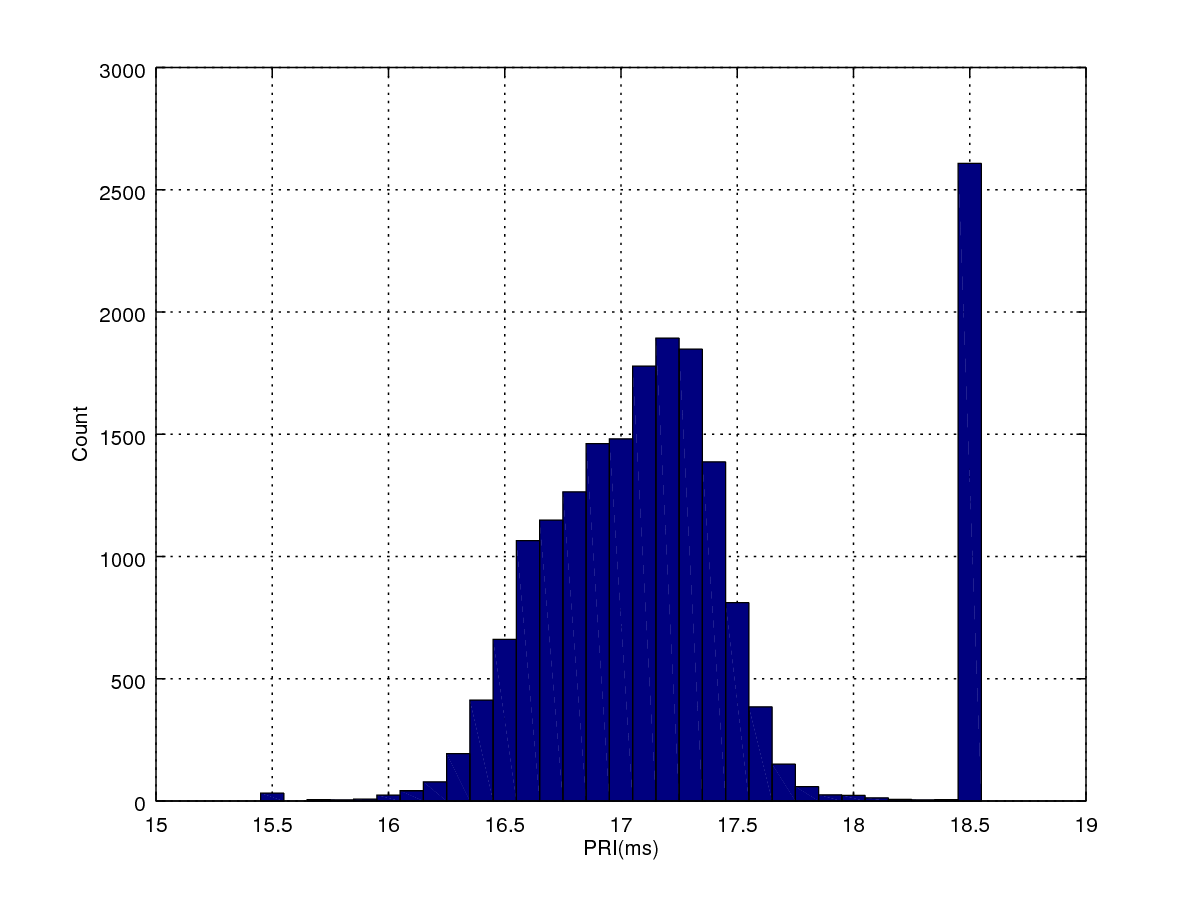
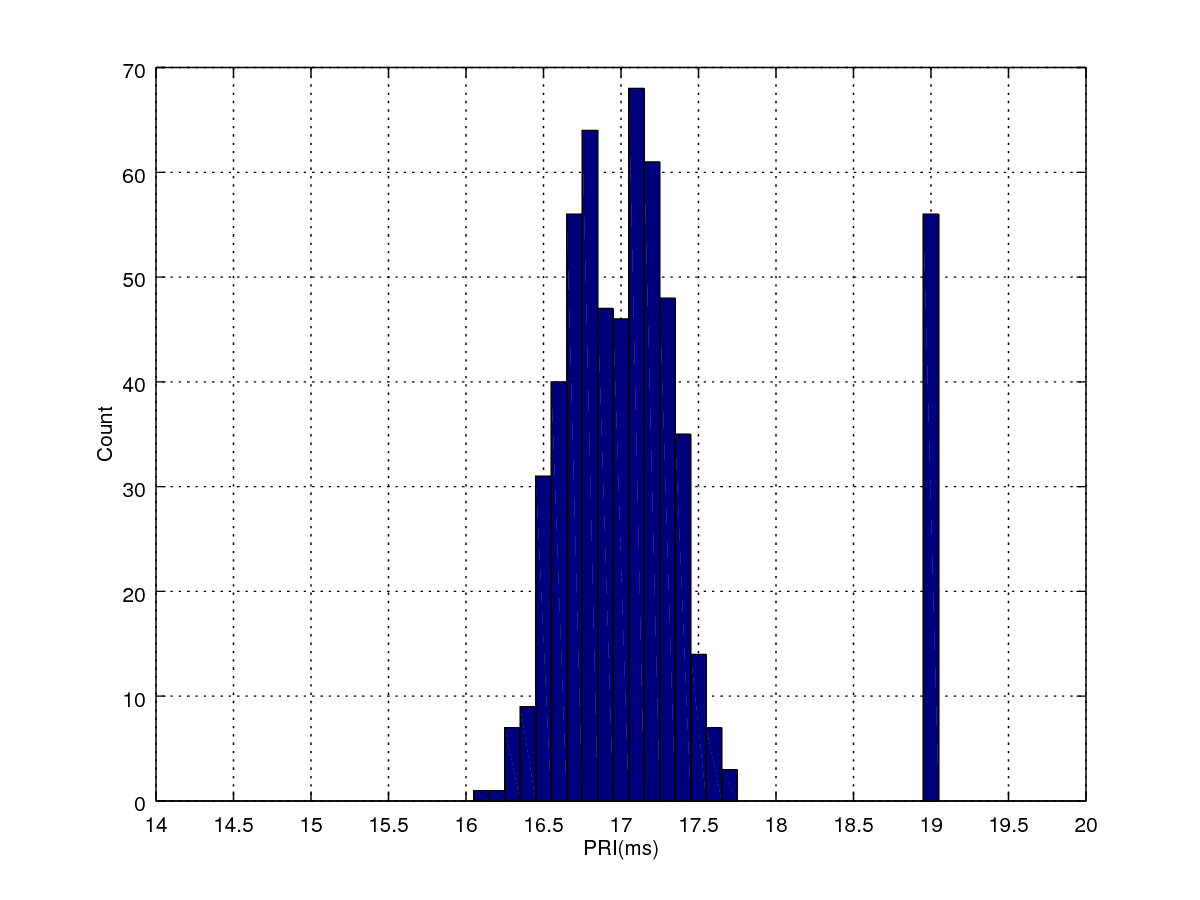
Proof reading revision done.

diff --git a/Writings/TrafficAnalysisOnIoT/device.tex b/Writings/TrafficAnalysisOnIoT/device.tex
@@ -1,33 +1,41 @@
-\section{Distinguish Devices}\label{Sec:DistinguishDevice}
-IoT applications utilise a great variation of devices, with each having different processing power. Thus the same operation, e.g. processing a PING packet, takes different time on different devices. This opens the potential of leaking hardware information through observing packet timings.
+\section{Distinguish Hardware}\label{Sec:DistinguishDevice}
+%Basic idea of this attack
+IoT applications utilise a great variation of devices, with each having different processing power. Consequently, the time required for a specific operation could be exploited as an indicator to the hardware. 
 
-Although not uniquely, PING is specifically an ideal feature supported in 6LoWPAN that can be exploited to perform such attack due to:
+The time required to process a PING Request could therefore be exploited to perform such hardware distinguishing attack. Although the same attack could be conducted on various packets, PING is specifically practical and ideal due to:
 \begin{enumerate}
-	\item PING is processed in a highly predictable routine where nearly no computation is required, minimising the noise induced by different data.
-	\item The support of PING is required by the IPv6\cite{rfc4443}, making the attack universally applicable.
+	\item PING is processed in a highly predictable manner where nearly no computation is required; thus minimises the noise induced by data dependency.
+	\item Support to PING is mandatory according to the standard\cite{rfc4443}, making the attack universally applicable.
 \end{enumerate}
 
-When using the ping command in Linux distributions, it is recommend to add the ``-s 0'' option to remove the user defined data and thus avoid exceeding 6LoWPAN MTU (127 bytes). The interval option  ``-i'' must also be used with care as excessing frequency may flood the devices and cause inaccurate measurements.
+For our experiments, the PING Requests are initiated from a Linux machine connected into the 6LoWPAN through a border router. The ``-s 0'' option is specified for the `ping6' command in order to avoid exceeding the MTU of 6LoWPAN (127 bytes). 
 
 \subsection{Computing PING Response Time}\label{TimingWithContikiMAC}
-Contiki adopts a Radio Duty Cycle (RDC) protocol called Contiki MAC\cite{ContikiMAC} to preserve energy. On receiver's side, Contiki MAC switching off the radio for most of the times and periodically wakes it up for a short period for signal detection. If a signal is detected during that period, the radio is kept on until the packet is received. On the other hand, the sender repeatedly sends a packet, until one of them is detected by the receiver and the next one being received and acknowledged.
+%How to process the packets
+%ContikiMAC
+For energy preservation, Contiki adopts a Radio Duty Cycle (RDC) protocol called Contiki MAC\cite{ContikiMAC}. On receiver's side, Contiki MAC switches off the radio for most of the times and periodically wakes up for a short period for signal detection. If a signal is detected during the awaken period, the radio is kept on to receive a packet, followed by an acknowledgement sent to inform the sender. On sender's side, a packet is repeatedly transmitted until timed out or an acknowledgement is received.
 
-As a result, duplicated packets may be observed in the captured traffic. To best approximate the processing time for a specific PING request, the PING Response Interval (PRI) is defined as the time elapsed between the last PING request being sent and the first PING response being replied. 
+Therefore when ContikiMAC is enabled by default, duplicated packets may be observed in the captured traffic. As an approximation to the PING Request processing time, we define PING Response Interval (PRI) as the time elapsed between the last PING Request and the first PING Response.
 
-\paragraph{Example}
+\begin{example}
+%\paragraph{Example}
 
 \AddFigure{fig/PRI.png}{PRI Example}{PRIExample}
 
-\Cref{PRIExample} shows an example of packets captured by Wireshark\cite{Wireshark}. Duplicated PING requests, \#$198$ to \#$203$, are replied by a single response, \#$205$, matched by their \textit{seq} field ($=16$). The PRI is therefore computed as the time between \#$203$ and \#$205$ which is:
+\Cref{PRIExample} shows an example of packets captured by Wireshark\cite{Wireshark}. Duplicated PING Requests, No.$198$ to No.$203$, are replied by a single PING Response, No.$205$, matched by their \textit{seq} field ($16$). The PRI is therefore computed as the difference in time between No.$203$ (last PING Request) and No.$205$ (first PING Response) which is:
 \begin{equation*}
 PRI = 4.701468 - 4.684369 = 0.017099(s) = 17.099(ms)
 \end{equation*}
+\end{example}
 
-\subsection{PRIs on TelosB and CC2538} \label{PRI_Devices}
+\subsection{PRIs of TelosB and CC2538} \label{PRI_Devices}
 
-\Cref{PRIs} shows PRIs collected on two devices, TelosB and CC2538, respectively. The graph demonstrates that they can be easily distinguished, as PRIs of TelosB are clustered around $17$ ms whilst CC2538 are around $9.5$ ms.
+\Cref{PRIs} shows the distributions of PRI collected on TelosB and CC2538. The bar on the right most represents the outliers in the data, with $9.43\%$ on TelosB are $\geq 19$ms and $2.60\%$ on CC2538 $\geq 12$ms respectively. 
+
+The result of \Cref{PRIs} suggests that TelosB and CC2538 can be easily distinguished by their PRIs, as they are tightly clustered around $17$ms for TelosB and $9.5$ms for CC2538 respectively.
 
 \begin{figure}[ht!]
+	\centering
 	\begin{subfigure}{0.45\linewidth}
 		\includegraphics[width=\linewidth]{fig/helloworld_sky.png}
 		\subcaption{TelosB PRIs}
@@ -36,17 +44,26 @@ PRI = 4.701468 - 4.684369 = 0.017099(s) = 17.099(ms)
 		\includegraphics[width=\linewidth]{fig/helloworld_cc2538.png}
 		\subcaption{CC2538 PRIs}
 	\end{subfigure}
+	
+	\adjustbox{max width = \textwidth}
+	{
+		\begin{tabular}{|c|c|c|}
+			\hline
+			              & Mean (ms)     & Median (ms)   \\ \hline
+			TelosB  & 33.82 & 17.03 \\ \hline
+			CC2538 & 14.27         & 9.56          \\ \hline
+		\end{tabular}
+	}
 	\caption{PRIs for different devices. \label{PRIs}}
 \end{figure}
 
-We also realised that certain outliers exist in our data, represented by the right most bars in \Cref{PRIs}. $13.789$\%  of the PRIs are $\geq$ $18.5$ms on Sky, and $15.307$\% are $\geq$ $11.5$ms on CC2538. A common cause of the outliers is processor being occupied by other tasks when a PING request is received; therefore prolonged the PRI, as illustrated by \Cref{PingloadExample}. The portion of the outlier is hence affected by the payload on the node and the frequency of PING requests. We discuss further details of the outliers in \Cref{PingLoad}.
+With respect to the outliers, one common cause is the processor being occupied by other tasks when a PING Request is received; thus delayed the processing of PING as illustrated by \Cref{PingloadExample}. The portion of the outlier is hence affected by the payload on the node and the frequency of PING requests. We discuss further details of the outliers in \Cref{PingLoad}.
 
 \subsection{Factors Affecting PRI} \label{PingDevice}
 
-Even though \Cref{PRI_Devices} demonstrated that PRI has a nice distinguishability over our experimented devices, other factors must be taken into account when using PRI as a hint to devices. 
+Despite the clear distinguishability suggested by \Cref{PRI_Devices}, there exists several practical factors the might affect the result.
 
-%802.15.4 Security Setting
-For example, when 802.15.4 security\cite{802154} is enabled, additional time will be taken for cryptographic operations. PRI can further vary due to different implementations, such as the hardware or software AES implementation on a TelosB. \Cref{802154SecPRI} illustrates a comparison between TelosB SW/HW AES and CC2538 SW AES with 802.15.4 security enabled. In addition, excessive PING frequent could also have an impact to the measured PRI as the flooding packets would overrun the processing power of the low resourced devices.
+802.15.4 Security\cite{802154} is a prominent factor to PRIs as it induces several cryptographic operations which are computationally heavy and hence could significantly increase the PRI. \Cref{802154SecPRI} illustrates the PRIs on the same devices when 802.15.4 Security is enabled. Flooding PING could also make an impact on measuring PRIs as it will overrun the low processing power of these resource constrained devices.
 
 \begin{figure}[ht!]
 	\centering

diff --git a/Writings/TrafficAnalysisOnIoT/macros.tex b/Writings/TrafficAnalysisOnIoT/macros.tex
@@ -13,3 +13,5 @@
 	\lstinputlisting[captionpos=b, caption=#2, breaklines=true,label=#3]{#1}
 }
 
+\theoremstyle{definition}
+\newtheorem{example}{Example}
